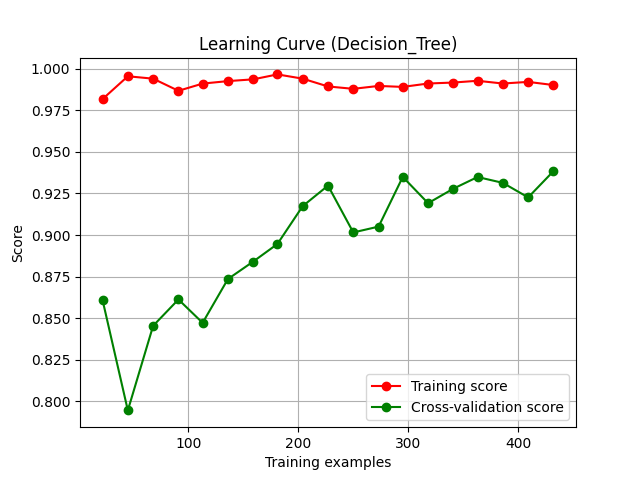
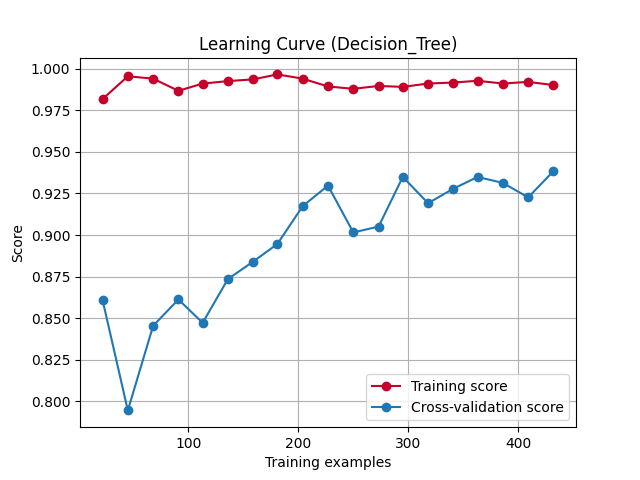
correções finais

diff --git a/src/main.py b/src/main.py
@@ -88,8 +88,8 @@ with open(f'files/results.txt', 'w') as f:
         train_scores_mean = np.mean(train_scores, axis=1)
         test_scores_mean = np.mean(test_scores, axis=1)
         plt.grid()
-        plt.plot(train_sizes, train_scores_mean, 'o-', color="r", label="Training score")
-        plt.plot(train_sizes, test_scores_mean, 'o-', color="g", label="Cross-validation score")
+        plt.plot(train_sizes, train_scores_mean, 'o-', color="#c5002a", label="Training score")
+        plt.plot(train_sizes, test_scores_mean, 'o-', color="#1f77b4", label="Cross-validation score")
         plt.legend(loc="best")
         plt.savefig(f"files/{name}/learning_curve.png")
         plt.close()
